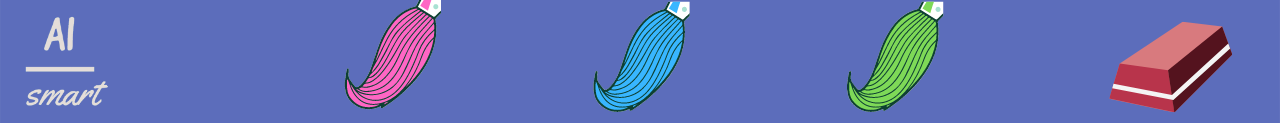
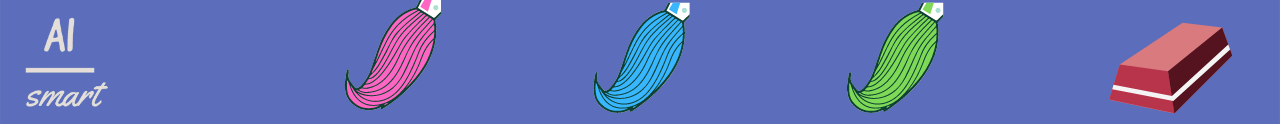
Draw : draw and  erasing colors

diff --git a/hand_tracking/hand_tracking/painter.py b/hand_tracking/hand_tracking/painter.py
@@ -25,6 +25,10 @@ cap.set(4 ,720)
 
 hand_detect = HandDetection(detect_confidance=0.80)
 
+brush_weight=15
+erase_weight=80
+x_previous,y_previous=0,0  
+
 while True:
     success , img =cap.read()
     img= cv2.flip(img,1)
@@ -67,8 +71,27 @@ while True:
             cv2.circle(img,(x1,y1),15,color, cv2.FILLED)
 
             print("Drawing mode")
+            if x_previous== 0 and y_previous==0:
+                x_previous,y_previous=x1,y1
+
+            if color==(0,0,0):
+              cv2.line(img, (x_previous,y_previous),(x1,y1),color,erase_weight)
+              cv2.line(img_cover, (x_previous,y_previous),(x1,y1),color,erase_weight)
+            else:
+              cv2.line(img, (x_previous,y_previous),(x1,y1),color,brush_weight)
+              cv2.line(img_cover, (x_previous,y_previous),(x1,y1),color,brush_weight)
+            x_previous,y_previous=x1,y1
+
+
+    gray_img=cv2.cvtColor(img_cover,cv2.COLOR_BGR2GRAY)
+    _, inverse_img=cv2.threshold(gray_img,0,255,cv2.THRESH_BINARY_INV)
+    inverse_img=cv2.cvtColor(inverse_img,cv2.COLOR_GRAY2BGR)
+    img=cv2.bitwise_and(img,inverse_img)
+    img=cv2.bitwise_or(img,img_cover)
+
+
     
-    # img[0:125 , 0:1280] = header
+    img[0:125 , 0:1280] = header
     cv2.imshow("Image",img)
     if cv2.waitKey(1) & 0xff==ord("q"):
         break
